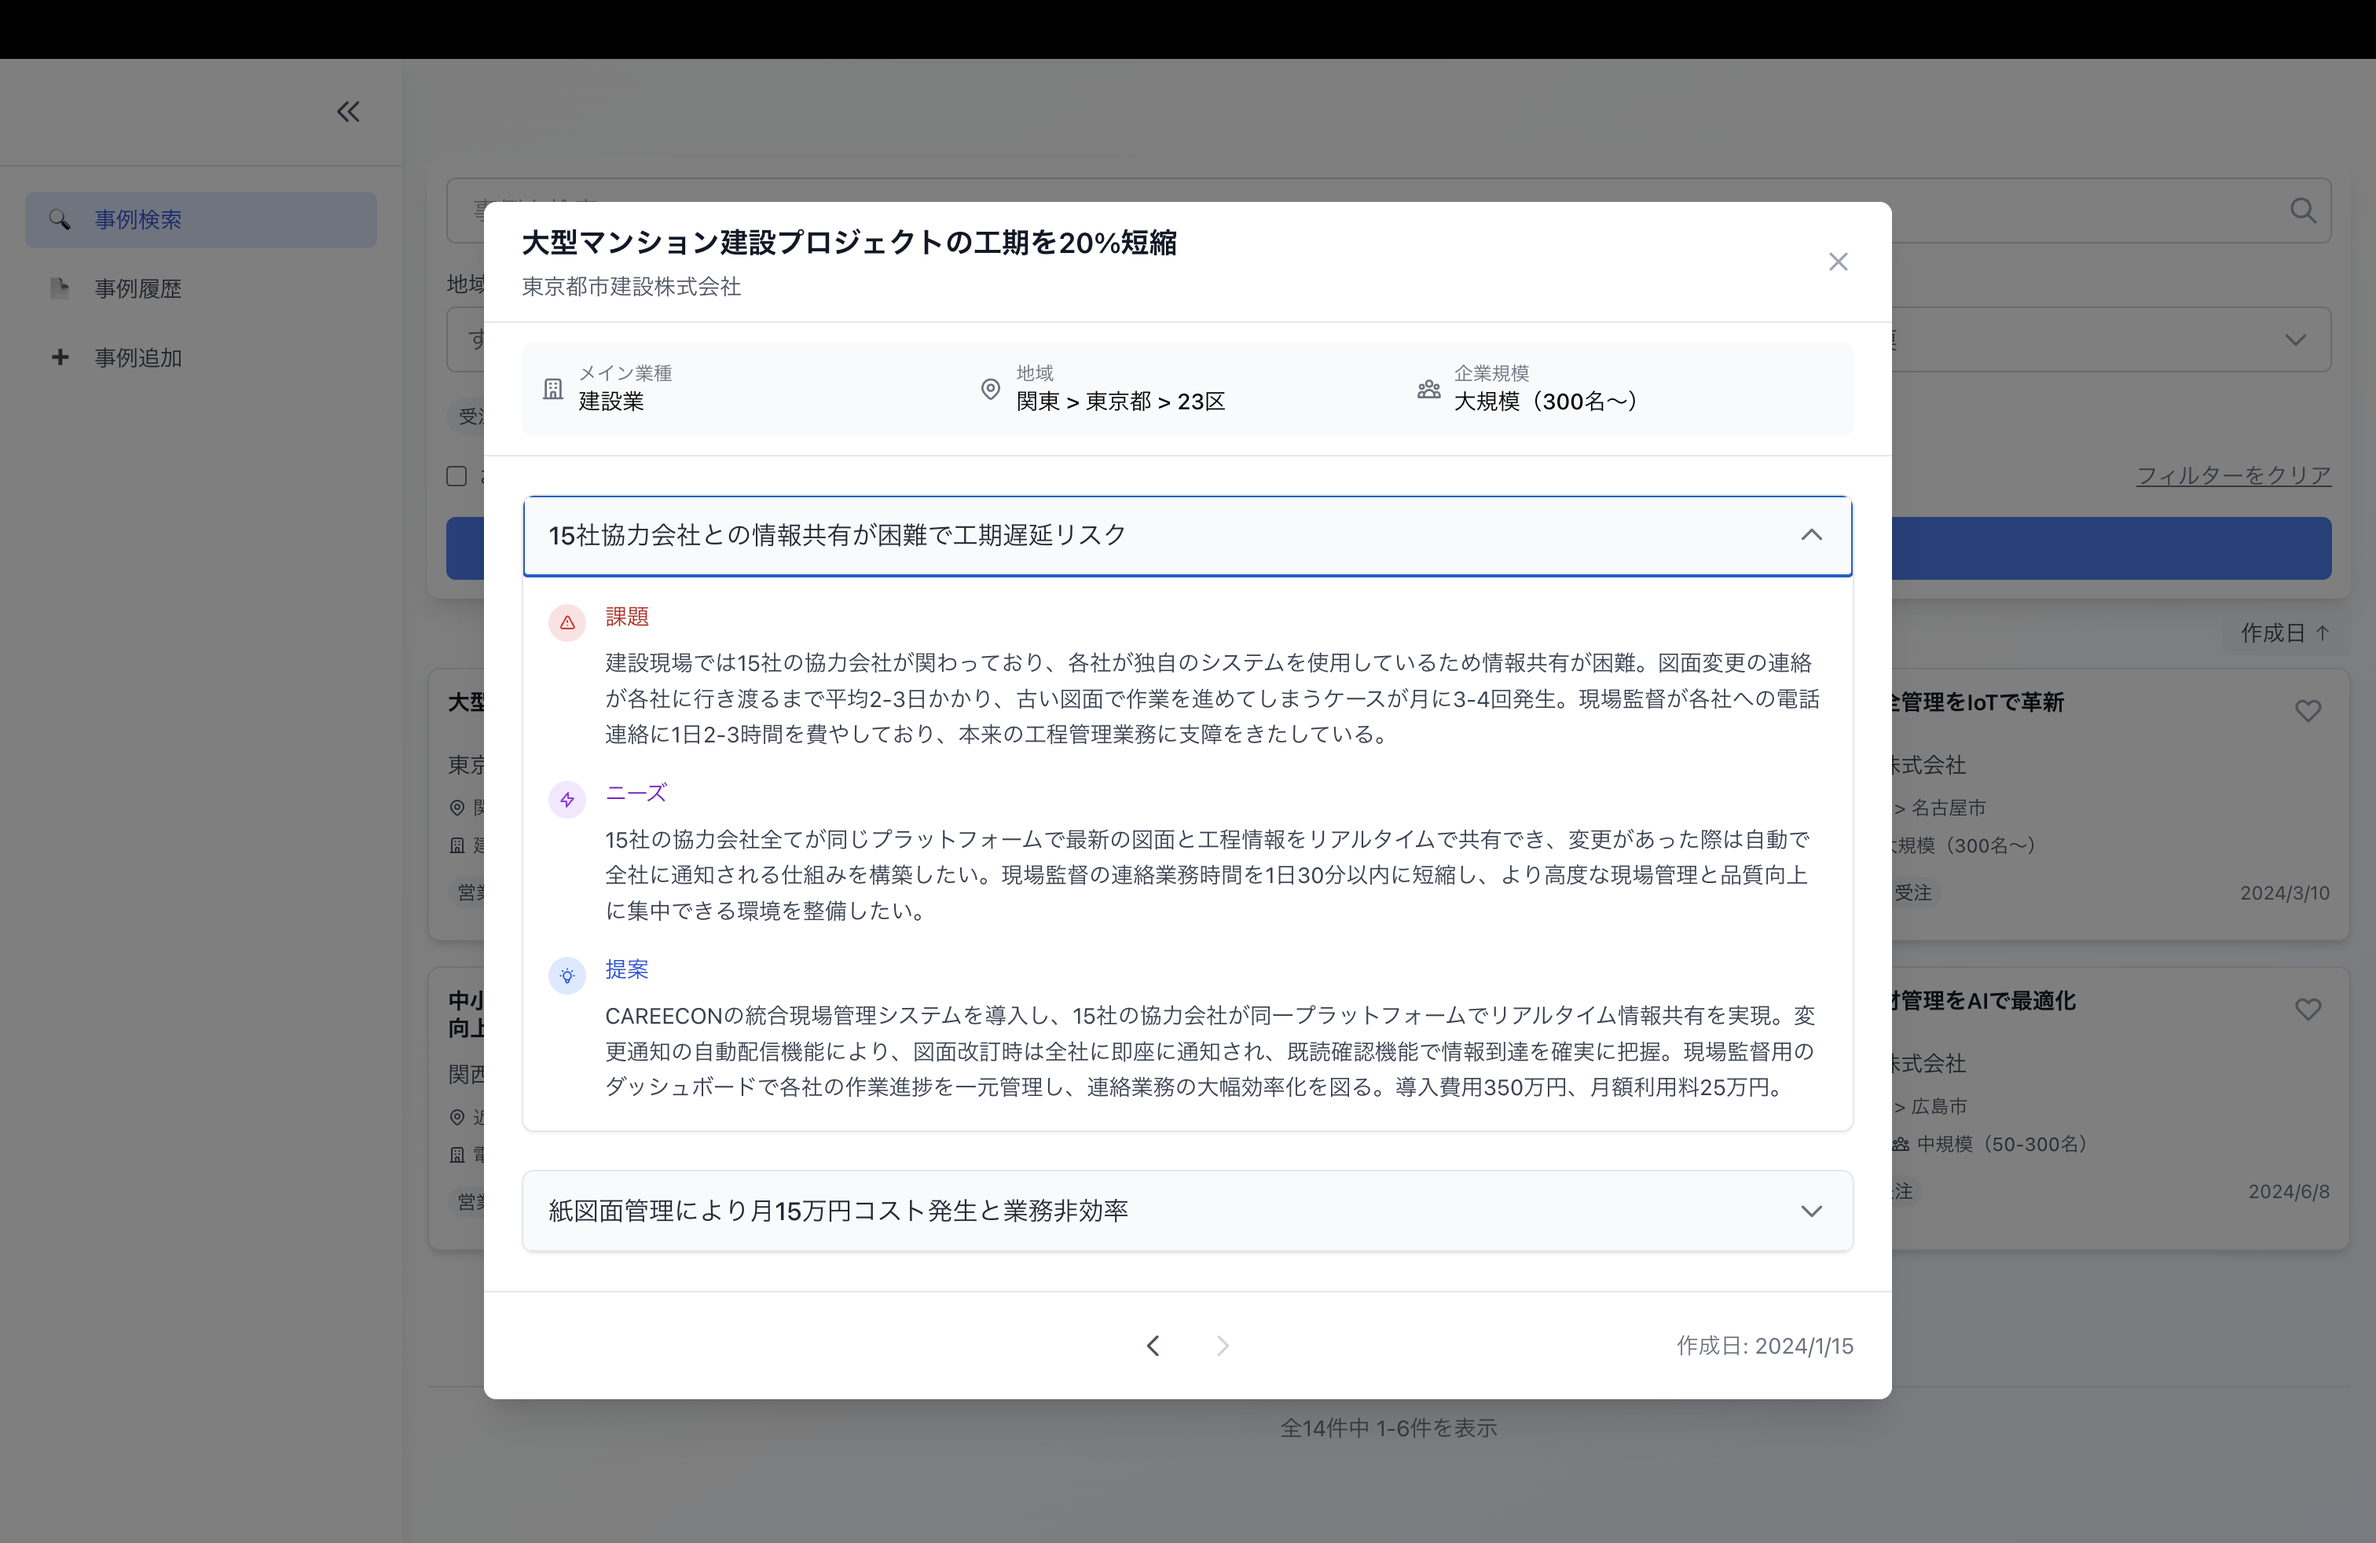
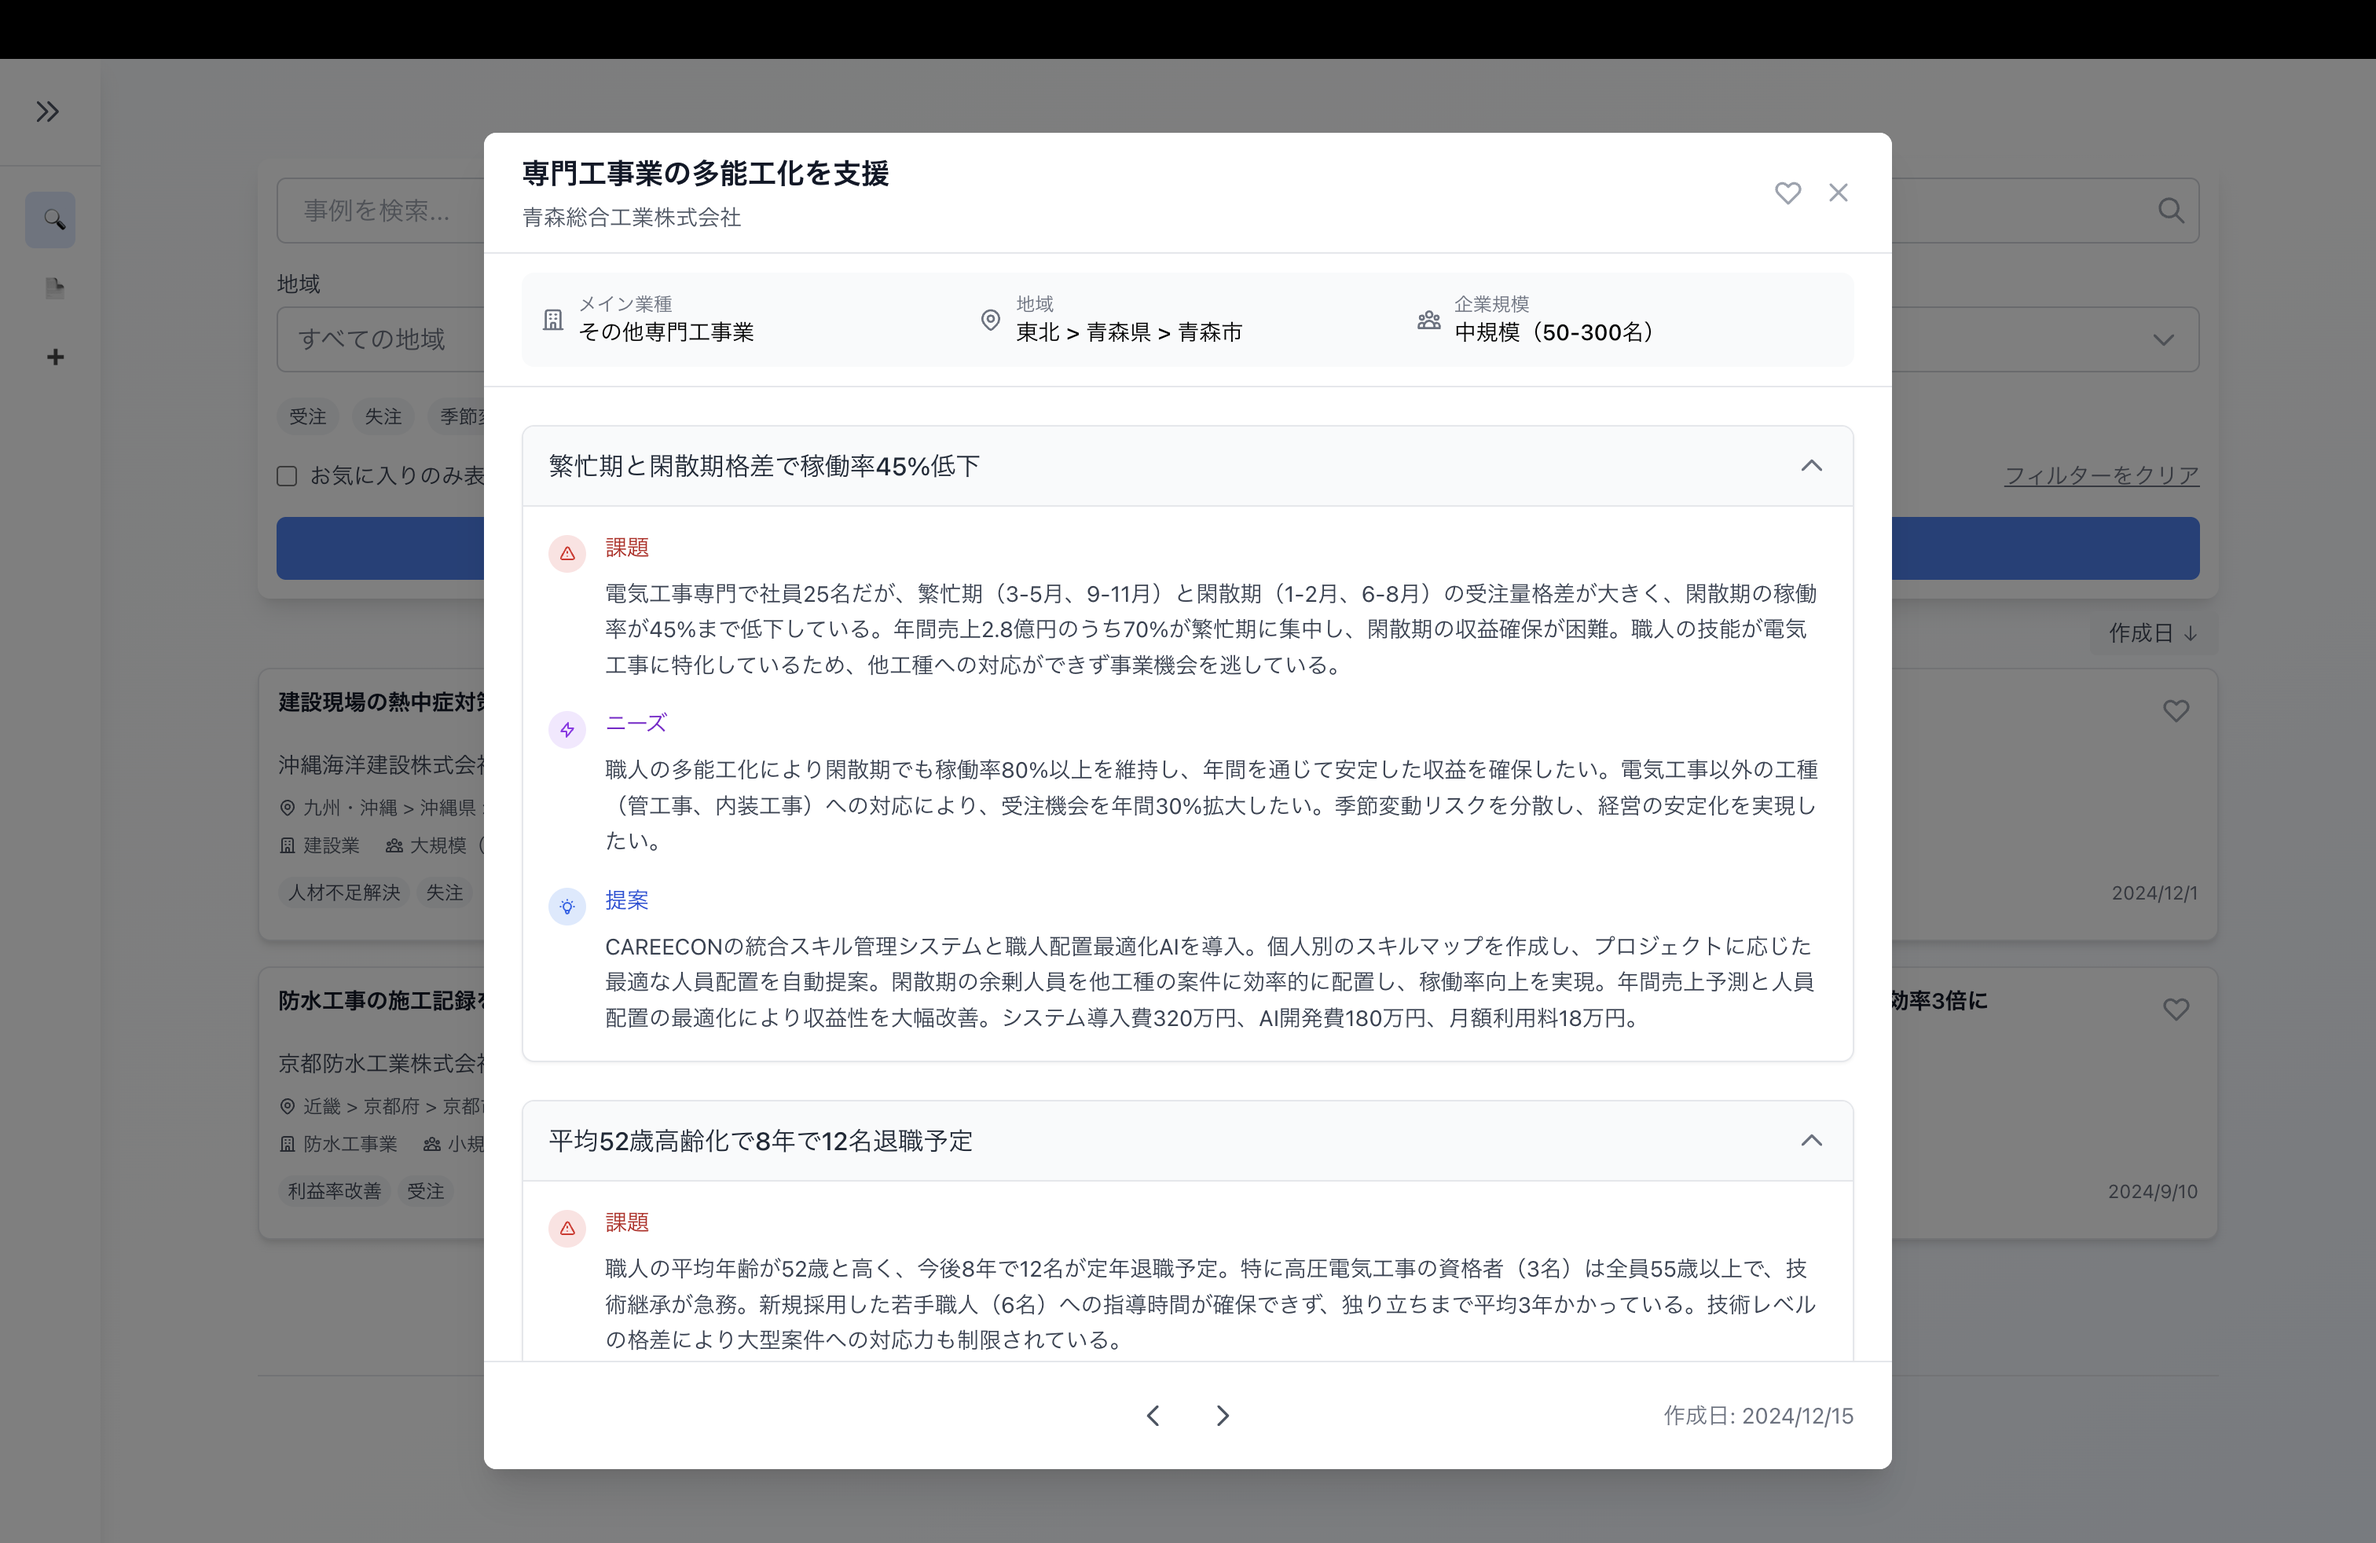
update

diff --git a/src/components/CaseCollector.tsx b/src/components/CaseCollector.tsx
@@ -78,8 +78,17 @@ export const CaseCollector: React.FC<CaseCollectorProps> = ({ onCaseCollected, o
     if (savedMessages && savedMessages.length > 0) {
       setIsCompleted(false);
       setShowConfirmation(false);
+      // メッセージがある場合は一時保存を有効化
+      setCanTemporarySave(true);
     }
   }, [savedMessages]);
+
+  // メッセージが増えたら一時保存を有効化（最初のAIメッセージ以外）
+  React.useEffect(() => {
+    if (messages.length > 1) {
+      setCanTemporarySave(true);
+    }
+  }, [messages]);
   const messagesEndRef = useRef<HTMLDivElement>(null);
   const inputRef = useRef<HTMLTextAreaElement>(null);
 
@@ -285,7 +294,7 @@ export const CaseCollector: React.FC<CaseCollectorProps> = ({ onCaseCollected, o
         <div className="px-4 pb-4">
           {!canTemporarySave && (
             <div className="text-sm text-gray-500 mb-3 text-center">
-              💡 AIが課題やニーズを整理できたら、保存ボタンが有効になります
+              💡 会話を開始すると、保存ボタンが有効になります
             </div>
           )}
           <div className="flex justify-end space-x-3">
@@ -297,7 +306,7 @@ export const CaseCollector: React.FC<CaseCollectorProps> = ({ onCaseCollected, o
             </button>
             <button
               onClick={() => {
-                // AI生成データを使用して事例データを生成
+                // 事例データを生成（AI生成データがあれば使用、なければ空配列）
                 const caseData = {
                   title: `${basicInfo?.companyName || ''}との商談`,
                   companyName: basicInfo?.companyName || '',
@@ -307,11 +316,11 @@ export const CaseCollector: React.FC<CaseCollectorProps> = ({ onCaseCollected, o
                   prefecture: basicInfo?.prefecture || '',
                   city: basicInfo?.city || '',
                   companySize: basicInfo?.companySize || 'medium',
-                  // AI生成データを使用
-                  challenges: aiDataReceived.map(item => item.challenge),
-                  challengeSummaries: aiDataReceived.map(item => item.title),
-                  needs: aiDataReceived.map(item => item.need),
-                  proposals: aiDataReceived.map(item => item.proposal),
+                  // AI生成データがあれば使用、なければ空配列
+                  challenges: aiDataReceived.length > 0 ? aiDataReceived.map(item => item.challenge) : [],
+                  challengeSummaries: aiDataReceived.length > 0 ? aiDataReceived.map(item => item.title) : [],
+                  needs: aiDataReceived.length > 0 ? aiDataReceived.map(item => item.need) : [],
+                  proposals: aiDataReceived.length > 0 ? aiDataReceived.map(item => item.proposal) : [],
                   results: [],
                   tags: ['進行中'],
                   orderStatus: 'in_progress' as const
@@ -330,7 +339,7 @@ export const CaseCollector: React.FC<CaseCollectorProps> = ({ onCaseCollected, o
             </button>
             <button
               onClick={() => {
-                // AI生成データを使用して確認・編集画面へ
+                // 確認・編集画面へのデータ準備（AI生成データがあれば使用、なければ空配列）
                 const caseData = {
                   id: existingCaseData?.id, // 既存事例のIDを保持
                   title: `${basicInfo?.companyName || ''}との商談事例`,
@@ -341,11 +350,11 @@ export const CaseCollector: React.FC<CaseCollectorProps> = ({ onCaseCollected, o
                   prefecture: basicInfo?.prefecture || '',
                   city: basicInfo?.city || '',
                   companySize: basicInfo?.companySize || 'medium',
-                  // AI生成データを使用
-                  challenges: aiDataReceived.map(item => item.challenge),
-                  challengeSummaries: aiDataReceived.map(item => item.title),
-                  needs: aiDataReceived.map(item => item.need),
-                  proposals: aiDataReceived.map(item => item.proposal),
+                  // AI生成データがあれば使用、なければ空配列
+                  challenges: aiDataReceived.length > 0 ? aiDataReceived.map(item => item.challenge) : [],
+                  challengeSummaries: aiDataReceived.length > 0 ? aiDataReceived.map(item => item.title) : [],
+                  needs: aiDataReceived.length > 0 ? aiDataReceived.map(item => item.need) : [],
+                  proposals: aiDataReceived.length > 0 ? aiDataReceived.map(item => item.proposal) : [],
                   results: [],
                   tags: ['進行中']
                   // orderStatus will be determined in final confirmation screen

diff --git a/src/components/CaseReviewEdit.tsx b/src/components/CaseReviewEdit.tsx
@@ -284,6 +284,20 @@ export const CaseReviewEdit: React.FC<CaseReviewEditProps> = ({
           {Array.from({ length: currentSets }, (_, setIndex) => (
             <div key={setIndex} className="border border-gray-200 rounded-lg p-4 bg-gray-50">
               <div className="space-y-4">
+                {/* タイトル */}
+                <div>
+                  <label className="block text-sm font-medium text-gray-700 mb-1">
+                    タイトル
+                  </label>
+                  <textarea
+                    value={(editedData.challengeSummaries || [])[setIndex] || ''}
+                    onChange={(e) => handleSetFieldChange(setIndex, 'challengeSummaries', e.target.value)}
+                    className="w-full px-3 py-2 border border-gray-300 rounded-md focus:outline-none focus:ring-2 focus:ring-blue-500 focus:border-blue-500"
+                    rows={2}
+                    placeholder="課題の要約・タイトルを入力してください"
+                  />
+                </div>
+
                 {/* 課題 */}
                 <div>
                   <label className="block text-sm font-medium text-gray-700 mb-1">
@@ -298,19 +312,6 @@ export const CaseReviewEdit: React.FC<CaseReviewEditProps> = ({
                   />
                 </div>
 
-                {/* 課題要約 */}
-                <div>
-                  <label className="block text-sm font-medium text-gray-700 mb-1">
-                    課題要約（カード見出し用）
-                  </label>
-                  <input
-                    type="text"
-                    value={(editedData.challengeSummaries || [])[setIndex] || ''}
-                    onChange={(e) => handleSetFieldChange(setIndex, 'challengeSummaries', e.target.value)}
-                    className="w-full px-3 py-2 border border-gray-300 rounded-md focus:outline-none focus:ring-2 focus:ring-blue-500 focus:border-blue-500"
-                    placeholder="課題の要約を入力してください"
-                  />
-                </div>
 
                 {/* ニーズ */}
                 <div>

diff --git a/src/components/CaseDetail.tsx b/src/components/CaseDetail.tsx
@@ -254,6 +254,21 @@ const CaseDetail: React.FC<CaseDetailProps> = ({
                   {/* Expanded Content */}
                   {expandedSections.has(index) && (
                     <div className="p-4 space-y-4">
+                      {/* Title */}
+                      {challengeSummary && (
+                        <div className="flex items-start space-x-3">
+                          <div className="w-6 h-6 bg-blue-100 rounded-full flex items-center justify-center flex-shrink-0 mt-0.5">
+                            <svg className="w-3 h-3 text-blue-600" fill="none" stroke="currentColor" viewBox="0 0 24 24">
+                              <path strokeLinecap="round" strokeLinejoin="round" strokeWidth={2} d="M7 7h.01M7 3h5c.512 0 1.024.195 1.414.586l7 7a2 2 0 010 2.828l-7 7a1.994 1.994 0 01-1.414.586H7a4 4 0 01-4-4V7a4 4 0 014-4z" />
+                            </svg>
+                          </div>
+                          <div className="flex-1">
+                            <h4 className="text-sm font-medium text-blue-700 mb-2">タイトル</h4>
+                            <p className="text-sm text-gray-700 leading-relaxed">{challengeSummary}</p>
+                          </div>
+                        </div>
+                      )}
+
                       {/* Challenge */}
                       {challenge && (
                         <div className="flex items-start space-x-3">

diff --git a/docs/screens/case_history.md b/docs/screens/case_history.md
@@ -5,9 +5,11 @@
 
 ## 画面
 ![事例履歴画面](imgs/case_history.png)
+![事例詳細ポップアップ](imgs/case_history_detail.png)
 ![事例編集画面](imgs/case_history_edit.png)
 ![削除確認ダイアログ](imgs/case_history_delete.png)
 ![AIヒヤリング再開](imgs/case_history_hearing_restart.png)
+
 
 ## 機能仕様
 
@@ -22,6 +24,7 @@
 - **ヒヤリング再開ボタン**: 非公開ステータスの事例のみ表示
 - **編集ボタン**: 編集画面へ遷移
 - **削除ボタン**: 削除確認アラート表示
+- 事例履歴画面の事例詳細ポップアップではお気に入り追加のハートは表示しない
 
 ### 3. 編集機能
 - 基本情報（企業名、業種、地域、規模、市区町村）の編集
